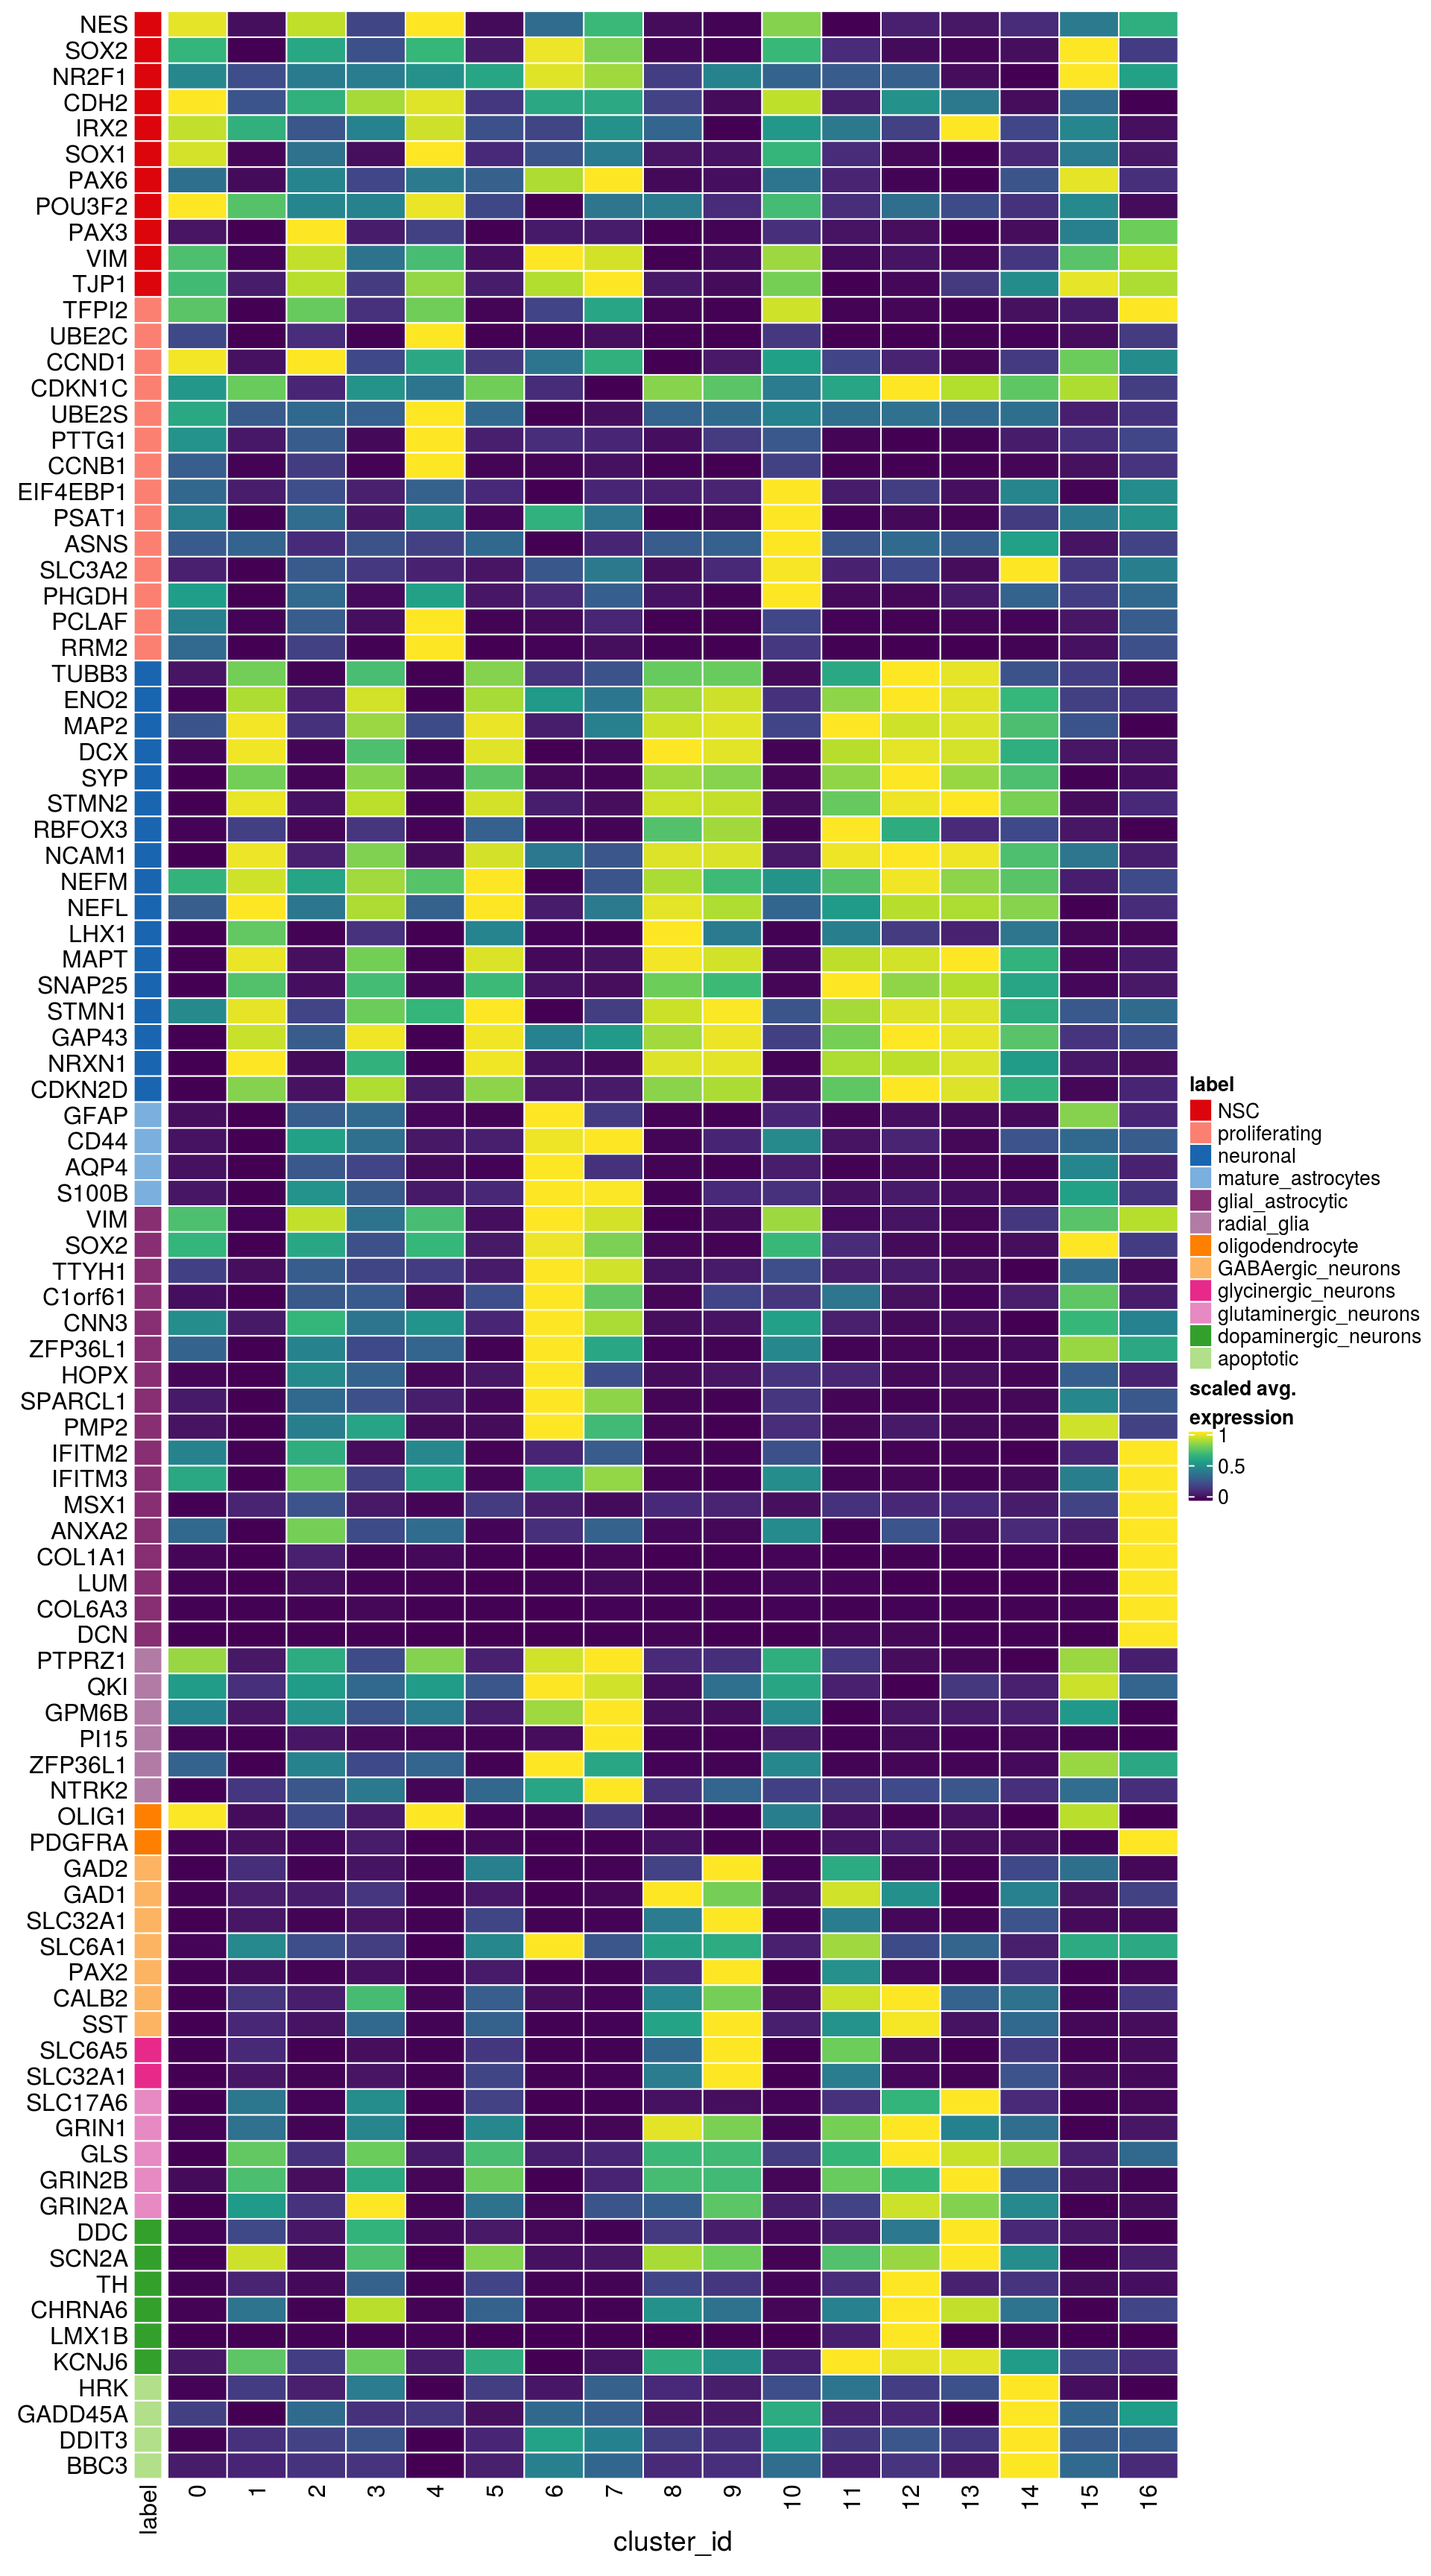
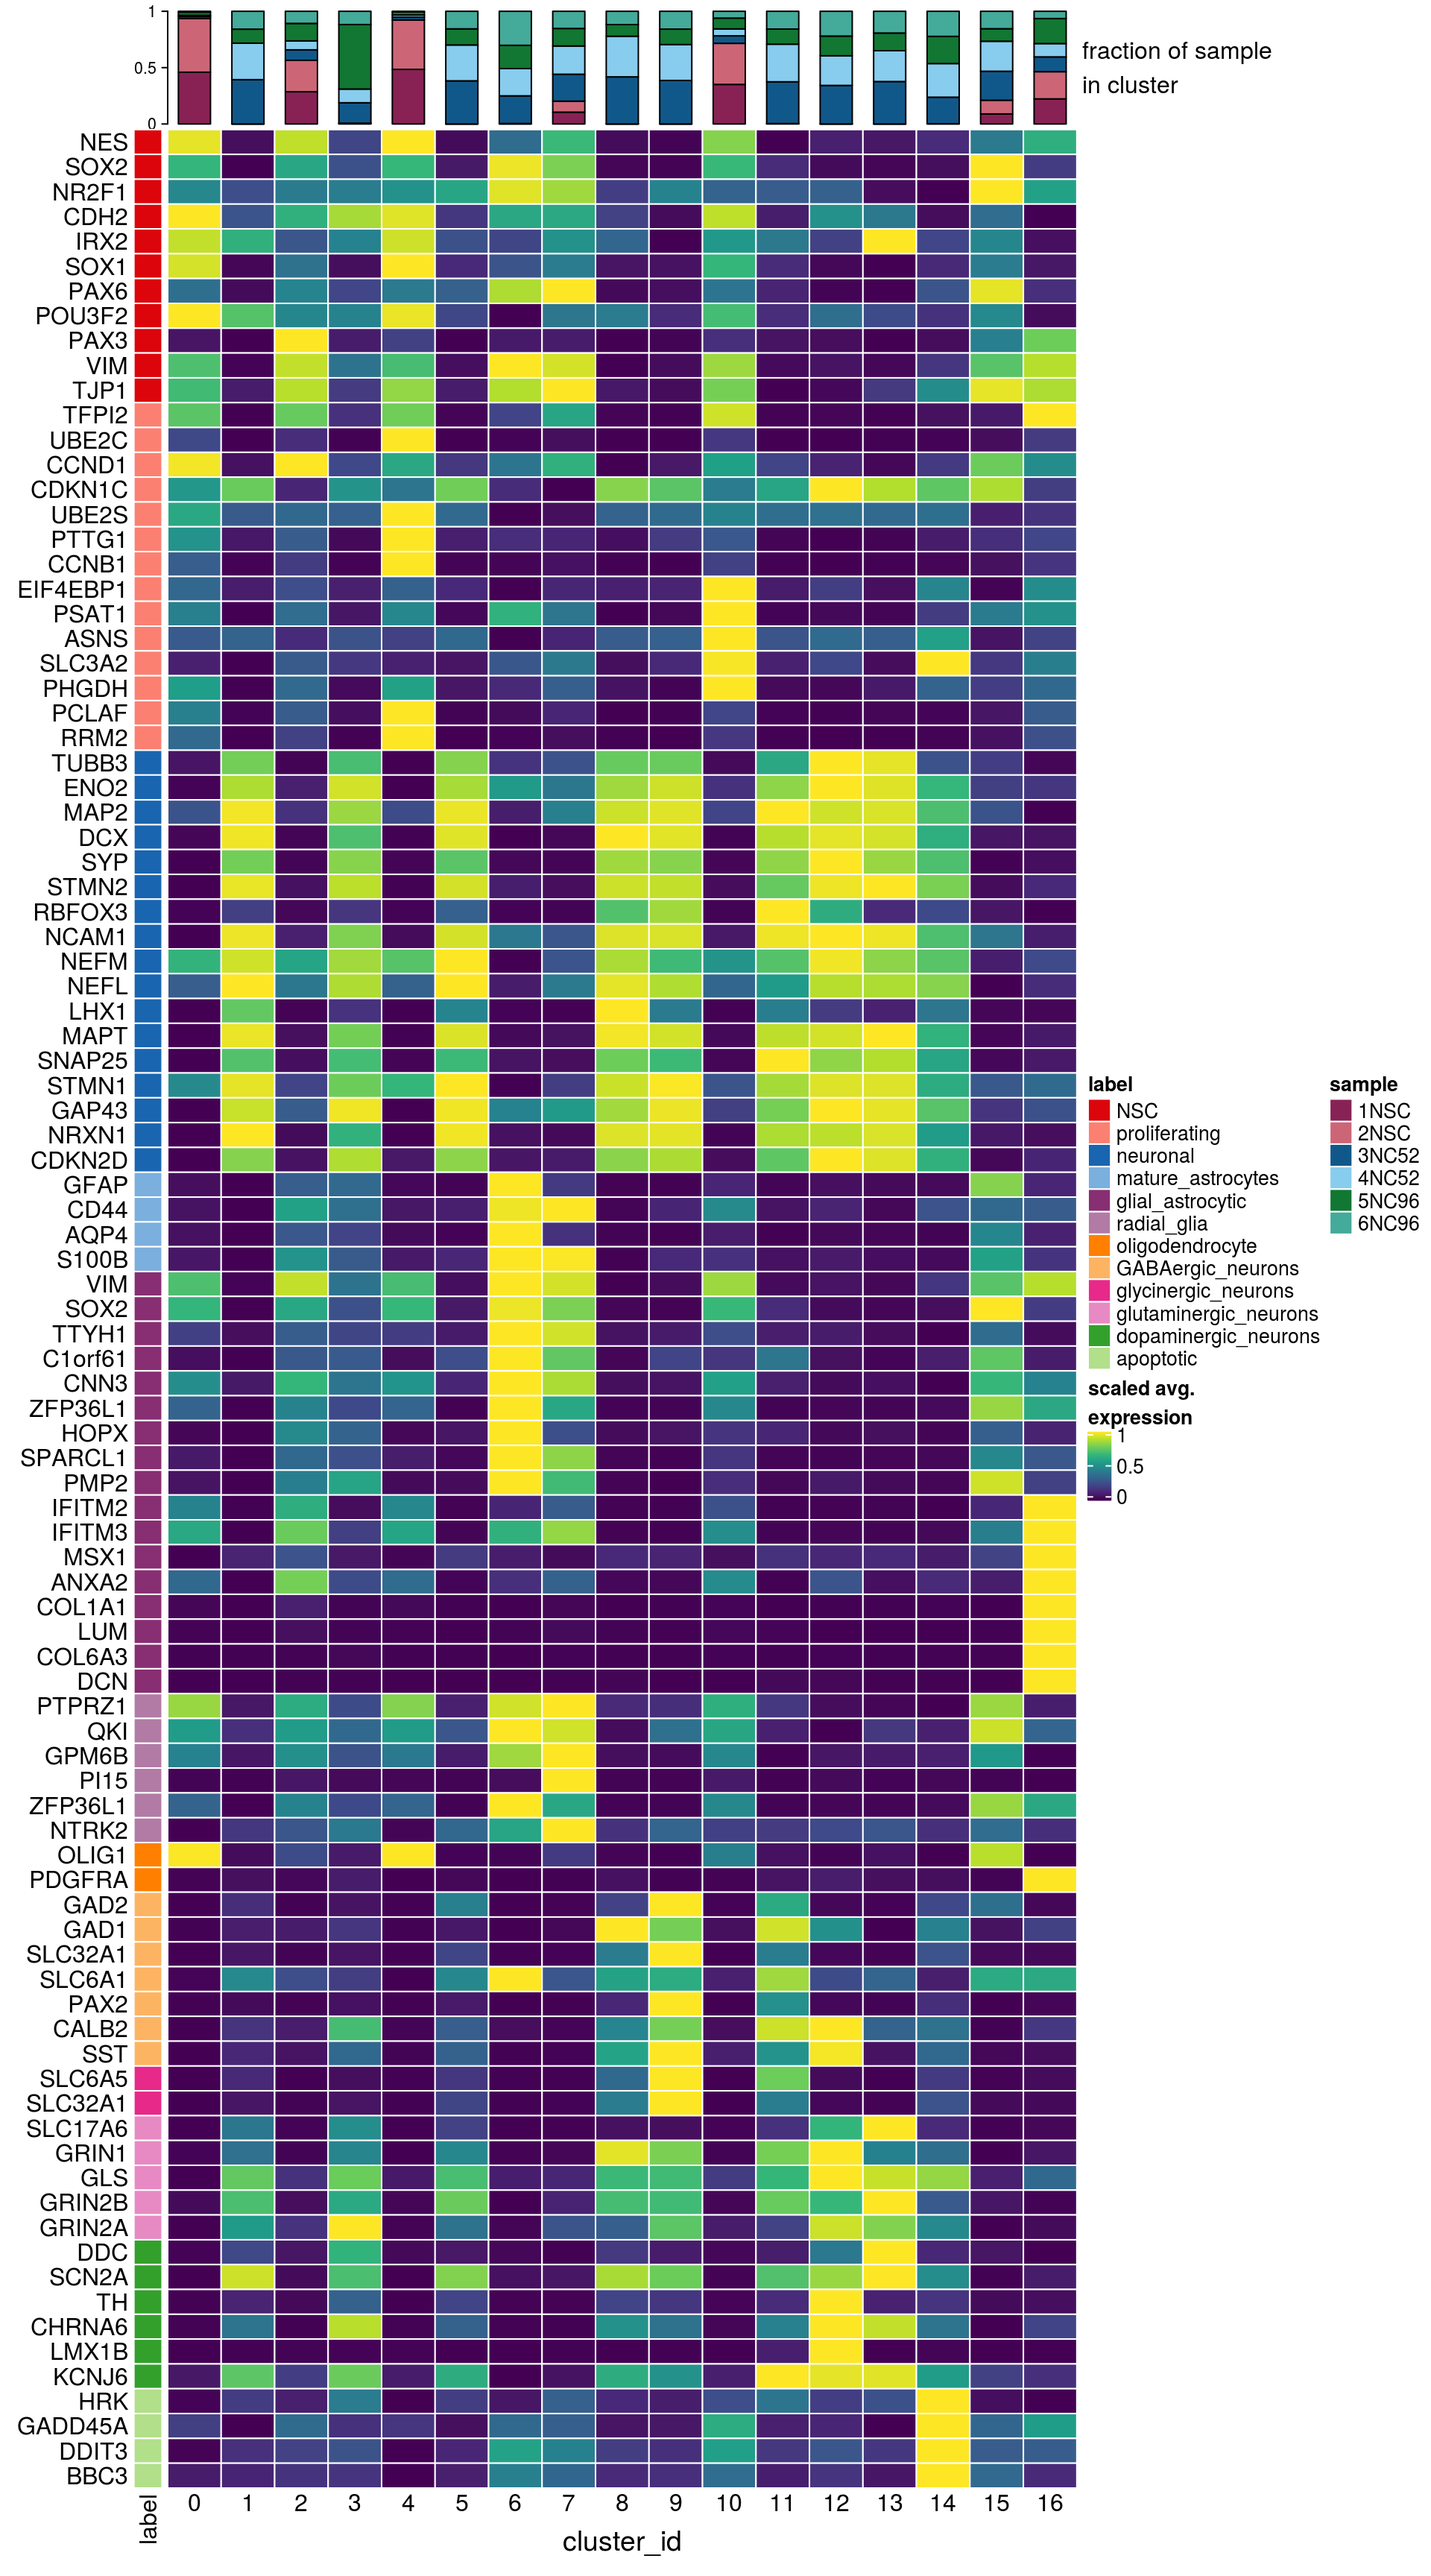
Build site.

diff --git a/docs/05-annotation.html b/docs/05-annotation.html
@@ -503,16 +503,16 @@ This reproducible <a href="http://rmarkdown.rstudio.com">R Markdown</a> analysis
 <div class="panel panel-default">
 <div class="panel-heading">
 <p class="panel-title">
-<a data-toggle="collapse" data-parent="#workflowr-checks" href="#strongRepositoryversionstrongahrefhttpsgithubcomkhembachneuralscRNAseqtree38c33d80926f365236669b14646f7a0c52104aabtargetblank38c33d8a"> <span class="glyphicon glyphicon-ok text-success" aria-hidden="true"></span> <strong>Repository version:</strong> <a href="https://github.com/khembach/neural_scRNAseq/tree/38c33d80926f365236669b14646f7a0c52104aab" target="_blank">38c33d8</a> </a>
+<a data-toggle="collapse" data-parent="#workflowr-checks" href="#strongRepositoryversionstrongahrefhttpsgithubcomkhembachneuralscRNAseqtreef376d767aa109dd9ad9e23e73994d46308a58a62targetblankf376d76a"> <span class="glyphicon glyphicon-ok text-success" aria-hidden="true"></span> <strong>Repository version:</strong> <a href="https://github.com/khembach/neural_scRNAseq/tree/f376d767aa109dd9ad9e23e73994d46308a58a62" target="_blank">f376d76</a> </a>
 </p>
 </div>
[2 lines of base64/hex data omitted]
 <div class="panel-body">
 <p>
 Great! You are using Git for version control. Tracking code development and connecting the code version to the results is critical for reproducibility.
 </p>
 <p>
-The results in this page were generated with repository version <a href="https://github.com/khembach/neural_scRNAseq/tree/38c33d80926f365236669b14646f7a0c52104aab" target="_blank">38c33d8</a>. See the <em>Past versions</em> tab to see a history of the changes made to the R Markdown and HTML files.
+The results in this page were generated with repository version <a href="https://github.com/khembach/neural_scRNAseq/tree/f376d767aa109dd9ad9e23e73994d46308a58a62" target="_blank">f376d76</a>. See the <em>Past versions</em> tab to see a history of the changes made to the R Markdown and HTML files.
 </p>
 <p>
 Note that you need to be careful to ensure that all relevant files for the analysis have been committed to Git prior to generating the results (you can use <code>wflow_publish</code> or <code>wflow_git_commit</code>). workflowr only checks the R Markdown file, but you know if there are other scripts or data files that it depends on. Below is the status of the Git repository when the results were generated:
@@ -524,7 +524,14 @@ Ignored files:
     Ignored:    .Rproj.user/
     Ignored:    ._.DS_Store
     Ignored:    .__workflowr.yml
+    Ignored:    ._hm.pdf
     Ignored:    ._neural_scRNAseq.Rproj
+    Ignored:    ._tmp.pdf
+    Ignored:    ._tmp_detected.pdf
+    Ignored:    ._tmp_manual_discard.pdf
+    Ignored:    ._tmp_manual_discard1.pdf
+    Ignored:    ._tmp_manual_discard_all.pdf
+    Ignored:    ._tmp_manual_discard_all1.pdf
     Ignored:    analysis/.DS_Store
     Ignored:    analysis/.Rhistory
     Ignored:    analysis/._.DS_Store
@@ -541,6 +548,9 @@ Ignored files:
     Ignored:    analysis/02.1-SampleQC_cache/
     Ignored:    analysis/03-filtering_cache/
     Ignored:    analysis/04-clustering_cache/
+    Ignored:    analysis/additional_filtering_cache/
+    Ignored:    analysis/additional_filtering_clustering_cache/
+    Ignored:    analysis/figure/
     Ignored:    analysis/sample5_QC_cache/
     Ignored:    data/.DS_Store
     Ignored:    data/._.DS_Store
@@ -550,16 +560,28 @@ Ignored files:
     Ignored:    data/filtered_feature_matrices/
     Ignored:    output/.DS_Store
     Ignored:    output/._.DS_Store
+    Ignored:    output/additional_filtering.rds
     Ignored:    output/figures/
     Ignored:    output/sce_01_preprocessing.rds
     Ignored:    output/sce_02_quality_control.rds
     Ignored:    output/sce_03_filtering.rds
     Ignored:    output/sce_preprocessing.rds
     Ignored:    output/so_04_clustering.rds
+    Ignored:    output/so_additional_filtering_clustering.rds
 
 Untracked files:
+    Untracked:  Rplots.pdf
+    Untracked:  analysis/additional_filtering.Rmd
+    Untracked:  analysis/additional_filtering_clustering.Rmd
     Untracked:  analysis/sample5_QC.Rmd
+    Untracked:  hm.pdf
     Untracked:  scripts/
+    Untracked:  tmp.pdf
+    Untracked:  tmp_detected.pdf
+    Untracked:  tmp_manual_discard.pdf
+    Untracked:  tmp_manual_discard1.pdf
+    Untracked:  tmp_manual_discard_all.pdf
+    Untracked:  tmp_manual_discard_all1.pdf
 
 Unstaged changes:
     Modified:   analysis/_site.yml
@@ -601,6 +623,40 @@ Message
 </tr>
 </thead>
 <tbody>
+<tr>
+<td>
+Rmd
+</td>
+<td>
+<a href="https://github.com/khembach/neural_scRNAseq/blob/f376d767aa109dd9ad9e23e73994d46308a58a62/analysis/05-annotation.Rmd" target="_blank">f376d76</a>
+</td>
+<td>
+khembach
+</td>
+<td>
+2020-06-12
+</td>
+<td>
+add barplot with sample fraction to heatmap
+</td>
+</tr>
+<tr>
+<td>
+html
+</td>
+<td>
+<a href="https://rawcdn.githack.com/khembach/neural_scRNAseq/34b86b86d6b2dc842e6e0ad4fec8841e31ec1b75/docs/05-annotation.html" target="_blank">34b86b8</a>
+</td>
+<td>
+khembach
+</td>
+<td>
+2020-06-12
+</td>
+<td>
+Build site.
+</td>
+</tr>
 <tr>
 <td>
 Rmd
@@ -1382,8 +1438,23 @@ cols &lt;- muscat:::.cluster_colors[seq_along(fs)]
 cols &lt;- setNames(cols, names(fs))
 row_anno &lt;- rowAnnotation(
     df = data.frame(label = factor(ks, levels = names(fs))),
-    col = list(label = cols), gp = gpar(col = &quot;white&quot;)) 
-Heatmap(mat,
+    col = list(label = cols), gp = gpar(col = &quot;white&quot;))
+# percentage of cells from each of the samples per cluster
+sample_props &lt;- prop.table(n_cells, margin = 1)
+col_mat &lt;- as.matrix(unclass(sample_props))
+sample_cols &lt;- c(&quot;#882255&quot;, &quot;#CC6677&quot;, &quot;#11588A&quot;, &quot;#88CCEE&quot;, &quot;#117733&quot;, &quot;#44AA99&quot;)
+sample_cols &lt;- setNames(sample_cols, colnames(col_mat))
+col_anno &lt;- HeatmapAnnotation(
+    perc_sample = anno_barplot(col_mat, gp = gpar(fill = sample_cols), 
+                               height = unit(2, &quot;cm&quot;),
+                               border = FALSE),
+    annotation_label = &quot;fraction of sample\nin cluster&quot;,
+    gap = unit(10, &quot;points&quot;))
+col_lgd &lt;- Legend(labels = names(sample_cols),
+       title = &quot;sample&quot;,
+       legend_gp = gpar(fill = sample_cols))
+
+hm &lt;- Heatmap(mat,
     name = &quot;scaled avg.\nexpression&quot;,
     col = viridis(10),
     cluster_rows = FALSE,
@@ -1391,8 +1462,13 @@ Heatmap(mat,
     row_names_side = &quot;left&quot;,
     column_title = &quot;cluster_id&quot;,
     column_title_side = &quot;bottom&quot;,
+    column_names_side = &quot;bottom&quot;,
+    column_names_rot = 0, 
+    column_names_centered = TRUE,
     rect_gp = gpar(col = &quot;white&quot;),
-    left_annotation = row_anno)</code></pre>
+    left_annotation = row_anno,
+    top_annotation = col_anno)
+draw(hm, annotation_legend_list = list(col_lgd))</code></pre>
 <p><img src="figure/05-annotation.Rmd/known-markers-heatmap-1.png" width="960" style="display: block; margin: auto;" /></p>
 <p>
 <button type="button" class="btn btn-default btn-xs btn-workflowr btn-workflowr-fig" data-toggle="collapse" data-target="#fig-known-markers-heatmap-1">
